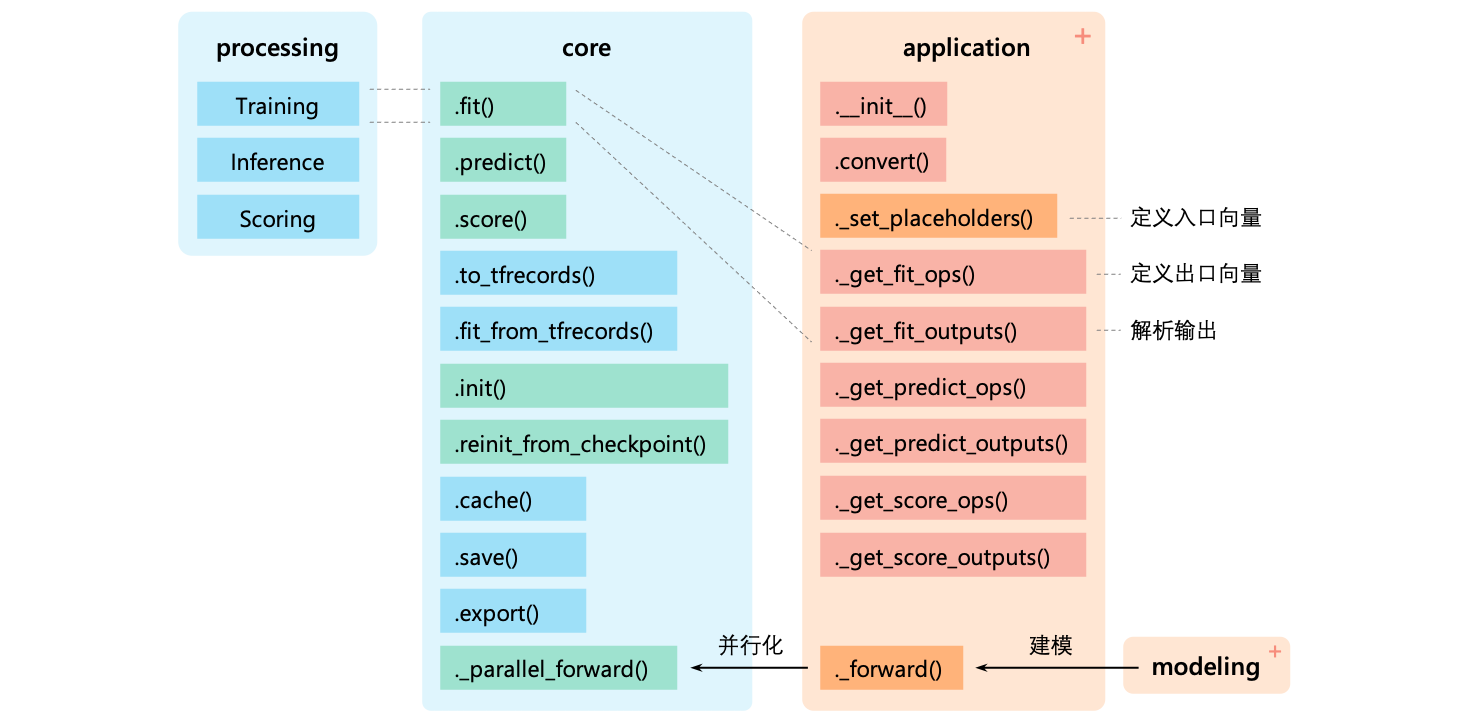
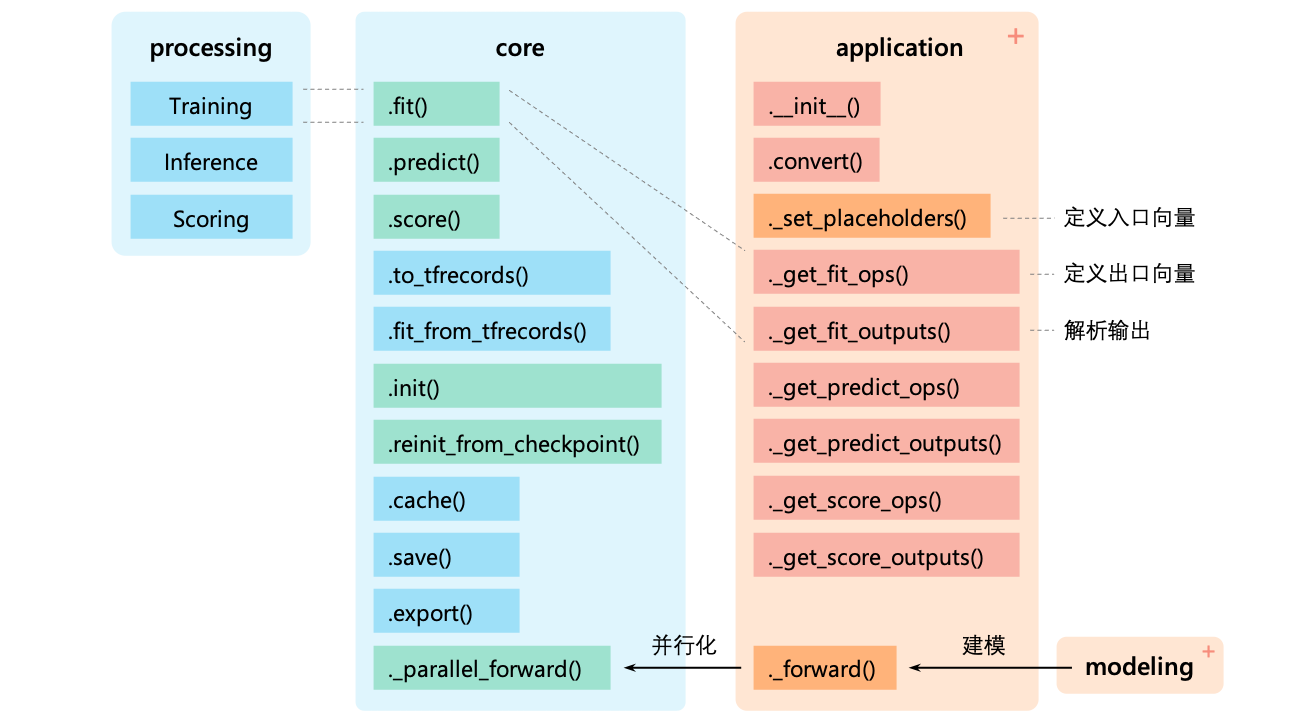
beta v2.6.1

Changed region(s): [[0.0624, 0.0, 0.9361, 1.0], [0.3744, 0.0618, 0.4368, 0.0927]]

diff --git a/README.md b/README.md
@@ -302,7 +302,7 @@ model.export(
 
 <p align="center">
     <br>
-    	<img src="./docs/framework.png" style="zoom:70%"/>
+    	<img src="./docs/framework.png" style="zoom:50%"/>
     <br>
 <p>
 
